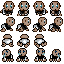
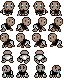
Use baby sprite and animate with movement

diff --git a/src/scenes/Initialize.js b/src/scenes/Initialize.js
@@ -8,7 +8,7 @@ export class Initialize extends Phaser.Scene {
     preload() {
         this.load.path = './assets/temp/';
 
-		this.load.image('baby_texture', 'dummy.png');
+		this.load.spritesheet('baby_texture', 'baby.png', { frameWidth: 16 });
 		this.load.image('bear_texture', 'dummy.png');
 		this.load.image('clown_texture', 'dummy.png');
 		this.load.image('dog_texture', 'dummy.png');
@@ -35,7 +35,42 @@ export class Initialize extends Phaser.Scene {
 
     create() {
         this.scene.launch('MusicScene');
-		this.scene.start(this.queryMode);	
+
+        this.createBabyAnims();
+
+        this.scene.start(this.queryMode);
     }
+
+	createBabyAnims() {
+		this.anims.create({
+            key: 'baby-walk-down',
+            frameRate: 8,
+            repeat: -1,
+            frames: this.anims.generateFrameNumbers('baby_texture', { start: 0, end: 3 }),
+        });
+
+		this.anims.create({
+            key: 'baby-walk-right',
+            frameRate: 8,
+            repeat: -1,
+            frames: this.anims.generateFrameNumbers('baby_texture', { start: 4, end: 7 }),
+        });
+
+		this.anims.create({
+            key: 'baby-walk-left',
+            frameRate: 8,
+            repeat: -1,
+            frames: this.anims.generateFrameNumbers('baby_texture', { start: 8, end: 11 }),
+        });
+
+		this.anims.create({
+            key: 'baby-walk-up',
+            frameRate: 8,
+            repeat: -1,
+            frames: this.anims.generateFrameNumbers('baby_texture', {
+                frames: [ 12, 13, 12, 14 ]
+            }),
+        });
+	}
 
 }

diff --git a/src/globals.js b/src/globals.js
@@ -1,5 +1,7 @@
 import { game } from './main.js'
 
+const radiansSixth = Math.PI / 3.0; // 1/6th of a circle
+
 export const buttonTextStyle = {
     fontFamily: 'Helvetica', // FIXME customize font
     color: '#000',
@@ -41,5 +43,27 @@ export function canvasPos(fractX, fractY) {
     }
 
     return [canvasX(fractX), canvasY(fractY)]
+}
+
+/** True modulo, as JS's % remainder operator can make negatives. https://stackoverflow.com/a/4467559 */
+function mod(a, b) {
+    return ((a % b) + b) % b;
+}
+
+export function getFacingDirection(originPoint, pointFaceTowards) {
+    const angle = Phaser.Math.Angle.BetweenPoints(originPoint, pointFaceTowards);
+    const rotationIndex = mod(Math.round(angle / radiansSixth), 6);
+    switch (rotationIndex) {
+        case 0:
+            return 'right';
+        case 4:
+        case 5:
+            return 'up';
+        case 3:
+            return 'left';
+        case 1:
+        case 2:
+            return 'down';
+    }
 }
 

diff --git a/src/gameObjects/characters/Character.js b/src/gameObjects/characters/Character.js
@@ -1,5 +1,6 @@
 import { State, StateMachine } from '@lib/StateMachine.js';
 
+import { getFacingDirection } from '@src/globals.js';
 import { finder } from '@src/main.js';
 
 export class Character extends Phaser.Physics.Arcade.Sprite {
@@ -113,6 +114,7 @@ export class Character extends Phaser.Physics.Arcade.Sprite {
 
         this.targetPos = pos;
         this.scene.physics.moveToObject(this, pos, this.controlVelocity);
+        this.setDirection(getFacingDirection(this, pos));
 
 		if(this.fsm.state != 'moving') {
 			this.fsm.transition('moving');
@@ -130,6 +132,10 @@ export class Character extends Phaser.Physics.Arcade.Sprite {
 	die() {
 		this.destroy();
 	}
+
+    setDirection(direction) {
+        this.direction = direction;
+    }
 
 }
 

diff --git a/src/gameObjects/characters/Baby.js b/src/gameObjects/characters/Baby.js
@@ -55,6 +55,11 @@ export default class Baby extends Character {
 		this.scene.scene.restart();
 	}
 
+    setDirection(direction) {
+        super.setDirection(direction);
+        this.play(`baby-walk-${direction}`, true);
+    }
+
 }
 
 class BabyIdleState extends State {
